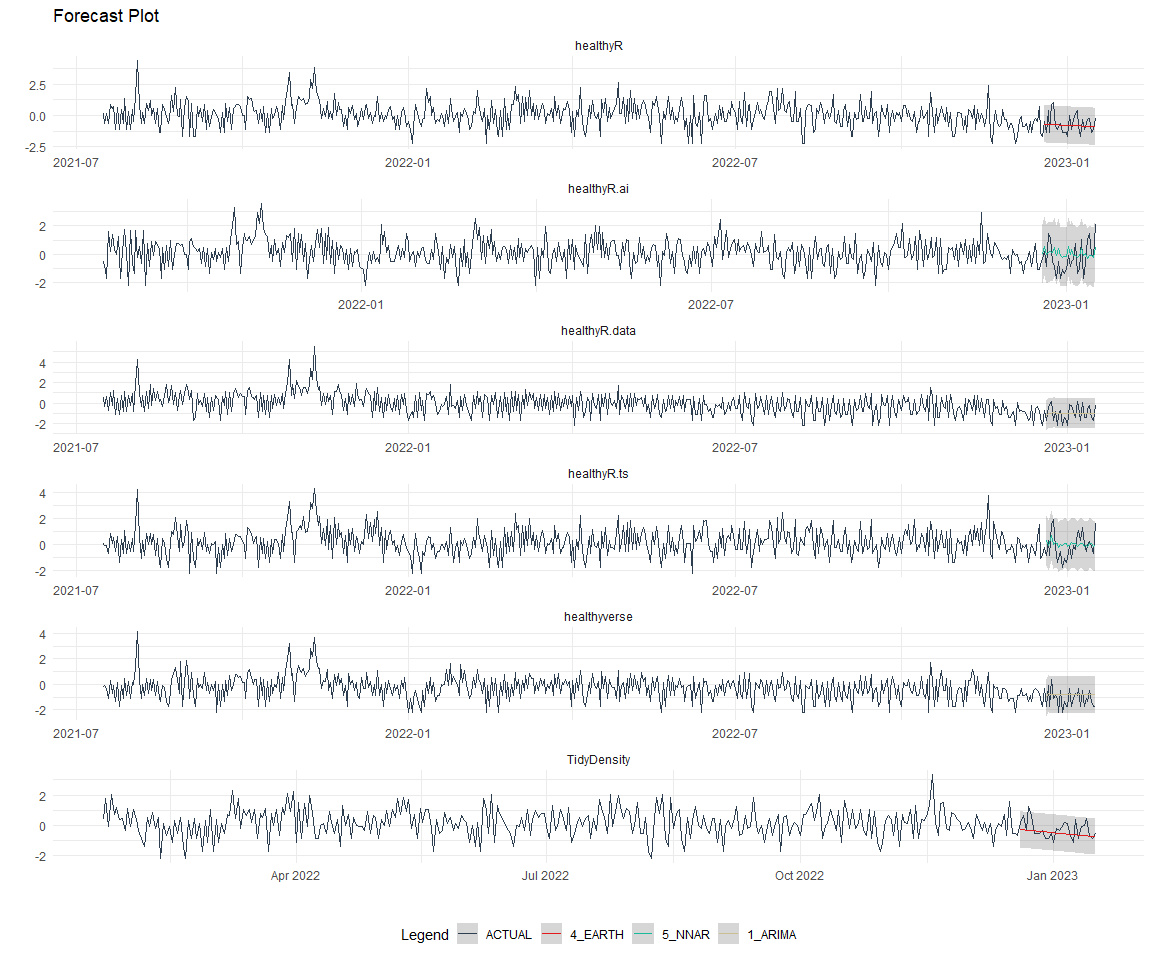
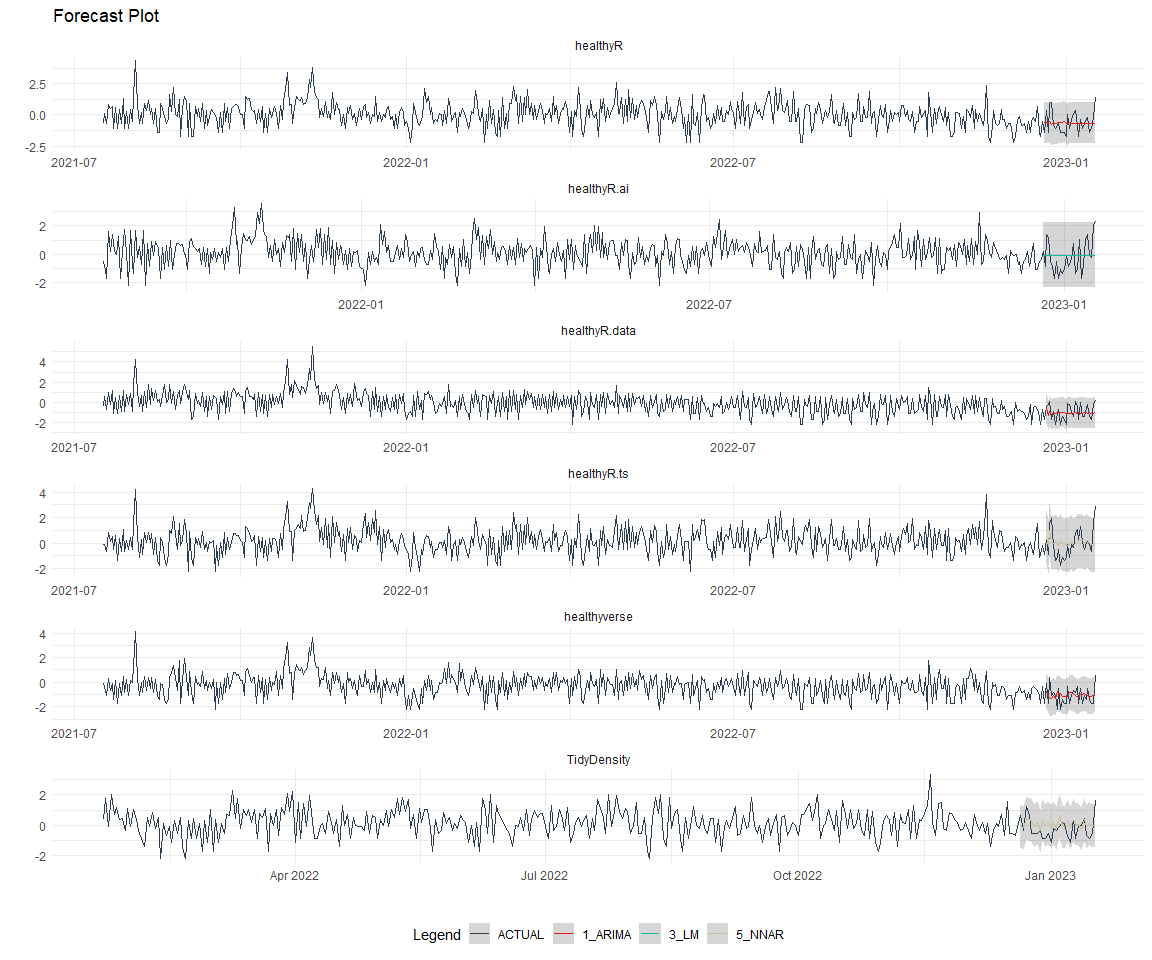
updates

diff --git a/README.md b/README.md
@@ -1,7 +1,7 @@
 Time Series Analysis and Nested Modeling of the Healthyverse Packages
 ================
 Steven P. Sanderson II, MPH - Data Scientist/IT Manager
-18 January, 2023
+19 January, 2023
 
 This analysis follows a *Nested Modeltime Workflow*.
 
@@ -11,7 +11,7 @@ This analysis follows a *Nested Modeltime Workflow*.
 glimpse(downloads_tbl)
 ```
 
-    ## Rows: 54,791
+    ## Rows: 55,011
     ## Columns: 11
     ## $ date      <date> 2020-11-23, 2020-11-23, 2020-11-23, 2020-11-23, 2020-11-23,…
     ## $ time      <Period> 15H 36M 55S, 11H 26M 39S, 23H 34M 44S, 18H 39M 32S, 9H 0M…
@@ -25,8 +25,8 @@ glimpse(downloads_tbl)
     ## $ country   <chr> "US", "US", "US", "GB", "US", "US", "DE", "HK", "JP", "US", …
     ## $ ip_id     <int> 2069, 2804, 78827, 27595, 90474, 90474, 42435, 74, 7655, 638…
 
-The last day in the data set is 2023-01-16 23:24:08, the file was
-birthed on: 2022-07-02 23:58:17, and at report knit time is -4747.43
+The last day in the data set is 2023-01-17 23:52:45, the file was
+birthed on: 2022-07-02 23:58:17, and at report knit time is -4771.91
 hours old. Happy analyzing!
 
 Now that we have our data lets take a look at it using the `skimr`
@@ -39,7 +39,7 @@ skim(downloads_tbl)
 |                                                  |               |
 |:-------------------------------------------------|:--------------|
 | Name                                             | downloads_tbl |
-| Number of rows                                   | 54791         |
+| Number of rows                                   | 55011         |
 | Number of columns                                | 11            |
 | \_\_\_\_\_\_\_\_\_\_\_\_\_\_\_\_\_\_\_\_\_\_\_   |               |
 | Column type frequency:                           |               |
@@ -57,37 +57,37 @@ Data summary
 
 | skim_variable | n_missing | complete_rate | min | max | empty | n_unique | whitespace |
 |:--------------|----------:|--------------:|----:|----:|------:|---------:|-----------:|
-| r_version     |     37624 |          0.31 |   5 |   5 |     0 |       35 |          0 |
-| r_arch        |     37624 |          0.31 |   3 |   7 |     0 |        5 |          0 |
-| r_os          |     37624 |          0.31 |   7 |  15 |     0 |       11 |          0 |
+| r_version     |     37813 |          0.31 |   5 |   5 |     0 |       35 |          0 |
+| r_arch        |     37813 |          0.31 |   3 |   7 |     0 |        5 |          0 |
+| r_os          |     37813 |          0.31 |   7 |  15 |     0 |       11 |          0 |
 | package       |         0 |          1.00 |   8 |  13 |     0 |        6 |          0 |
 | version       |         0 |          1.00 |   5 |   6 |     0 |       37 |          0 |
-| country       |      4440 |          0.92 |   2 |   2 |     0 |      128 |          0 |
+| country       |      4441 |          0.92 |   2 |   2 |     0 |      128 |          0 |
 
 **Variable type: Date**
 
 | skim_variable | n_missing | complete_rate | min        | max        | median     | n_unique |
 |:--------------|----------:|--------------:|:-----------|:-----------|:-----------|---------:|
-| date          |         0 |             1 | 2020-11-23 | 2023-01-16 | 2022-01-24 |      785 |
+| date          |         0 |             1 | 2020-11-23 | 2023-01-17 | 2022-01-24 |      786 |
 
 **Variable type: numeric**
 
 | skim_variable | n_missing | complete_rate |       mean |         sd |  p0 |   p25 |    p50 |     p75 |    p100 | hist  |
 |:--------------|----------:|--------------:|-----------:|-----------:|----:|------:|-------:|--------:|--------:|:------|
-| size          |         0 |             1 | 1352587.26 | 1703394.26 | 357 | 27386 | 322853 | 2731251 | 5677952 | ▇▁▂▂▁ |
-| ip_id         |         0 |             1 |    8985.93 |   17087.71 |   1 |   121 |   2374 |    9434 |  143633 | ▇▁▁▁▁ |
+| size          |         0 |             1 | 1349490.94 | 1702076.22 | 357 | 26285 | 313295 | 2731208 | 5677952 | ▇▁▂▂▁ |
+| ip_id         |         0 |             1 |    8971.68 |   17074.57 |   1 |   129 |   2340 |    9402 |  143633 | ▇▁▁▁▁ |
 
 **Variable type: POSIXct**
 
 | skim_variable | n_missing | complete_rate | min                 | max                 | median              | n_unique |
 |:--------------|----------:|--------------:|:--------------------|:--------------------|:--------------------|---------:|
-| date_time     |         0 |             1 | 2020-11-23 09:00:41 | 2023-01-16 23:24:08 | 2022-01-24 06:20:52 |    32542 |
+| date_time     |         0 |             1 | 2020-11-23 09:00:41 | 2023-01-17 23:52:45 | 2022-01-24 13:47:53 |    32617 |
 
 **Variable type: Timespan**
 
-| skim_variable | n_missing | complete_rate | min | max |     median | n_unique |
-|:--------------|----------:|--------------:|----:|----:|-----------:|---------:|
-| time          |         0 |             1 |   0 |  59 | 11H 39M 6S |       60 |
+| skim_variable | n_missing | complete_rate | min | max |      median | n_unique |
+|:--------------|----------:|--------------:|----:|----:|------------:|---------:|
+| time          |         0 |             1 |   0 |  59 | 11H 39M 48S |       60 |
 
 We can see that the following columns are missing a lot of data and for
 us are most likely not useful anyways, so we will drop them
@@ -189,8 +189,8 @@ nested_data_tbl
     ## 2 healthyR.data <tibble [544 × 2]> <tibble [28 × 2]> <split [516|28]>
     ## 3 healthyR.ts   <tibble [547 × 2]> <tibble [28 × 2]> <split [519|28]>
     ## 4 healthyverse  <tibble [549 × 2]> <tibble [28 × 2]> <split [521|28]>
-    ## 5 healthyR.ai   <tibble [513 × 2]> <tibble [28 × 2]> <split [485|28]>
-    ## 6 TidyDensity   <tibble [361 × 2]> <tibble [28 × 2]> <split [333|28]>
+    ## 5 healthyR.ai   <tibble [514 × 2]> <tibble [28 × 2]> <split [486|28]>
+    ## 6 TidyDensity   <tibble [362 × 2]> <tibble [28 × 2]> <split [334|28]>
 
 Now it is time to make some recipes and models using the modeltime
 workflow.
@@ -307,8 +307,8 @@ nested_modeltime_tbl
     ## 2 healthyR.data <tibble [544 × 2]> <tibble [28 × 2]> <split [516|28]> <mdl_tm_t>
     ## 3 healthyR.ts   <tibble [547 × 2]> <tibble [28 × 2]> <split [519|28]> <mdl_tm_t>
     ## 4 healthyverse  <tibble [549 × 2]> <tibble [28 × 2]> <split [521|28]> <mdl_tm_t>
-    ## 5 healthyR.ai   <tibble [513 × 2]> <tibble [28 × 2]> <split [485|28]> <mdl_tm_t>
-    ## 6 TidyDensity   <tibble [361 × 2]> <tibble [28 × 2]> <split [333|28]> <mdl_tm_t>
+    ## 5 healthyR.ai   <tibble [514 × 2]> <tibble [28 × 2]> <split [486|28]> <mdl_tm_t>
+    ## 6 TidyDensity   <tibble [362 × 2]> <tibble [28 × 2]> <split [334|28]> <mdl_tm_t>
     ## # … with abbreviated variable name ¹.modeltime_tables
 
 ### Model Accuracy
@@ -319,38 +319,38 @@ nested_modeltime_tbl %>%
   knitr::kable()
 ```
 
-| package       | .model_id | .model_desc | .type |       mae |      mape |      mase |     smape |      rmse |       rsq |
-|:--------------|----------:|:------------|:------|----------:|----------:|----------:|----------:|----------:|----------:|
-| healthyR      |         1 | ARIMA       | Test  | 0.6340799 | 371.22047 | 0.7761374 |  90.11914 | 0.7575680 | 0.0152857 |
-| healthyR      |         2 | NULL        | NA    |        NA |        NA |        NA |        NA |        NA |        NA |
-| healthyR      |         3 | LM          | Test  | 0.7258480 | 160.47704 | 0.8884649 | 125.90641 | 0.8513454 | 0.0113774 |
-| healthyR      |         4 | EARTH       | Test  | 0.6186432 | 380.65478 | 0.7572422 |  84.03507 | 0.7505254 | 0.0113774 |
-| healthyR      |         5 | NNAR        | Test  | 0.7941009 | 169.96289 | 0.9720090 | 135.82360 | 0.9618552 | 0.0002470 |
-| healthyR.data |         1 | ARIMA       | Test  | 0.6594236 | 515.17336 | 0.7237258 |  78.85813 | 0.7426308 | 0.0208554 |
-| healthyR.data |         2 | NULL        | NA    |        NA |        NA |        NA |        NA |        NA |        NA |
-| healthyR.data |         3 | LM          | Test  | 0.6848058 | 414.65450 | 0.7515832 |  85.34948 | 0.7759015 | 0.0111480 |
-| healthyR.data |         4 | EARTH       | Test  | 0.8165624 | 843.84136 | 0.8961876 |  79.78069 | 0.9773840 | 0.0111480 |
-| healthyR.data |         5 | NNAR        | Test  | 0.9573059 | 172.30771 | 1.0506555 | 154.85266 | 1.1907135 | 0.0057669 |
-| healthyR.ts   |         1 | ARIMA       | Test  | 0.7878847 | 127.42442 | 0.8908325 | 147.68289 | 0.9830067 | 0.0036796 |
-| healthyR.ts   |         2 | NULL        | NA    |        NA |        NA |        NA |        NA |        NA |        NA |
-| healthyR.ts   |         3 | LM          | Test  | 0.8483271 | 160.41528 | 0.9591726 | 167.80630 | 1.0116274 | 0.0527555 |
-| healthyR.ts   |         4 | EARTH       | Test  | 1.0270126 | 615.79464 | 1.1612057 | 123.80772 | 1.2710836 | 0.0527555 |
-| healthyR.ts   |         5 | NNAR        | Test  | 0.8065585 | 146.00162 | 0.9119463 | 174.16655 | 0.9687427 | 0.0248944 |
-| healthyverse  |         1 | ARIMA       | Test  | 0.6228463 |  77.44213 | 0.6931095 |  62.65519 | 0.7268999 | 0.0792455 |
-| healthyverse  |         2 | NULL        | NA    |        NA |        NA |        NA |        NA |        NA |        NA |
-| healthyverse  |         3 | LM          | Test  | 0.7032354 |  75.43894 | 0.7825674 |  72.70977 | 0.8260649 | 0.0143704 |
-| healthyverse  |         4 | EARTH       | Test  | 0.6450230 |  80.05386 | 0.7177880 |  65.10951 | 0.7500936 | 0.0143704 |
-| healthyverse  |         5 | NNAR        | Test  | 1.0074332 |  96.64475 | 1.1210817 | 144.07556 | 1.1362321 | 0.0633403 |
-| healthyR.ai   |         1 | ARIMA       | Test  | 0.9327222 |  97.97445 | 0.8795829 | 165.03793 | 1.0863866 | 0.0013158 |
-| healthyR.ai   |         2 | NULL        | NA    |        NA |        NA |        NA |        NA |        NA |        NA |
-| healthyR.ai   |         3 | LM          | Test  | 0.9209706 | 115.91854 | 0.8685008 | 174.94886 | 1.0724126 | 0.0538958 |
-| healthyR.ai   |         4 | EARTH       | Test  | 0.8511751 | 303.16458 | 0.8026817 | 109.16663 | 1.0985482 | 0.0538958 |
-| healthyR.ai   |         5 | NNAR        | Test  | 0.9495207 | 155.39172 | 0.8954244 | 166.54897 | 1.0561856 | 0.0991644 |
-| TidyDensity   |         1 | ARIMA       | Test  | 0.6211755 | 168.97904 | 1.1155176 | 167.29634 | 0.7275609 | 0.1190921 |
-| TidyDensity   |         2 | NULL        | NA    |        NA |        NA |        NA |        NA |        NA |        NA |
-| TidyDensity   |         3 | LM          | Test  | 0.5993491 | 154.34722 | 1.0763213 | 166.73626 | 0.6968132 | 0.0775985 |
-| TidyDensity   |         4 | EARTH       | Test  | 0.4615511 | 352.37587 | 0.8288614 |  95.90516 | 0.6039448 | 0.0775985 |
-| TidyDensity   |         5 | NNAR        | Test  | 0.6171464 | 213.56680 | 1.1082820 | 159.33546 | 0.7341444 | 0.0005315 |
+| package       | .model_id | .model_desc | .type |       mae |       mape |      mase |     smape |      rmse |       rsq |
+|:--------------|----------:|:------------|:------|----------:|-----------:|----------:|----------:|----------:|----------:|
+| healthyR      |         1 | ARIMA       | Test  | 0.6924071 |  430.61667 | 0.8218709 |  95.28569 | 0.8384934 | 0.0124747 |
+| healthyR      |         2 | NULL        | NA    |        NA |         NA |        NA |        NA |        NA |        NA |
+| healthyR      |         3 | LM          | Test  | 0.7705041 |  189.80078 | 0.9145702 | 129.30718 | 0.9002407 | 0.0035658 |
+| healthyR      |         4 | EARTH       | Test  | 0.6916827 |  470.98102 | 0.8210111 |  89.88451 | 0.8635639 | 0.0035658 |
+| healthyR      |         5 | NNAR        | Test  | 0.8501946 |  186.57563 | 1.0091610 | 139.37197 | 1.0318087 | 0.0067722 |
+| healthyR.data |         1 | ARIMA       | Test  | 0.6705928 |  652.14054 | 0.7667117 |  83.16821 | 0.7581477 | 0.0384025 |
+| healthyR.data |         2 | NULL        | NA    |        NA |         NA |        NA |        NA |        NA |        NA |
+| healthyR.data |         3 | LM          | Test  | 0.6849592 |  520.81453 | 0.7831374 |  89.22752 | 0.7758694 | 0.0182184 |
+| healthyR.data |         4 | EARTH       | Test  | 0.9167219 | 1105.60247 | 1.0481196 |  86.99572 | 1.0957179 | 0.0182184 |
+| healthyR.data |         5 | NNAR        | Test  | 0.9406365 |  256.87014 | 1.0754620 | 146.45522 | 1.1727292 | 0.0012708 |
+| healthyR.ts   |         1 | ARIMA       | Test  | 0.8587912 |  124.27456 | 0.9699759 | 144.93327 | 1.1277418 | 0.0009491 |
+| healthyR.ts   |         2 | NULL        | NA    |        NA |         NA |        NA |        NA |        NA |        NA |
+| healthyR.ts   |         3 | LM          | Test  | 0.9039060 |  168.91458 | 1.0209316 | 168.32854 | 1.1139811 | 0.1033321 |
+| healthyR.ts   |         4 | EARTH       | Test  | 1.1467245 |  720.91883 | 1.2951870 | 128.64118 | 1.4737699 | 0.1033321 |
+| healthyR.ts   |         5 | NNAR        | Test  | 0.7854639 |  129.71596 | 0.8871552 | 135.75002 | 1.0632150 | 0.0739477 |
+| healthyverse  |         1 | ARIMA       | Test  | 0.6054870 |   95.70480 | 0.6578121 |  61.23412 | 0.7281671 | 0.0003633 |
+| healthyverse  |         2 | NULL        | NA    |        NA |         NA |        NA |        NA |        NA |        NA |
+| healthyverse  |         3 | LM          | Test  | 0.7022059 |   80.97265 | 0.7628893 |  75.72648 | 0.8258552 | 0.0001948 |
+| healthyverse  |         4 | EARTH       | Test  | 0.6520020 |   87.04441 | 0.7083469 |  68.47462 | 0.7642446 | 0.0001948 |
+| healthyverse  |         5 | NNAR        | Test  | 0.9924719 |   91.10678 | 1.0782396 | 144.87509 | 1.1201855 | 0.0406243 |
+| healthyR.ai   |         1 | ARIMA       | Test  | 1.0091438 |  101.94884 | 0.9672738 | 171.93442 | 1.1616924 | 0.0044332 |
+| healthyR.ai   |         2 | NULL        | NA    |        NA |         NA |        NA |        NA |        NA |        NA |
+| healthyR.ai   |         3 | LM          | Test  | 0.9906158 |  125.49841 | 0.9495145 | 175.09832 | 1.1562244 | 0.1154700 |
+| healthyR.ai   |         4 | EARTH       | Test  | 0.9541382 |  376.03074 | 0.9145504 | 115.99550 | 1.2298307 | 0.1154700 |
+| healthyR.ai   |         5 | NNAR        | Test  | 1.0165997 |  217.55869 | 0.9744204 | 167.32916 | 1.1697383 | 0.0004124 |
+| TidyDensity   |         1 | ARIMA       | Test  | 0.6695410 |  188.41626 | 1.0822835 | 173.01149 | 0.7737243 | 0.0823673 |
+| TidyDensity   |         2 | NULL        | NA    |        NA |         NA |        NA |        NA |        NA |        NA |
+| TidyDensity   |         3 | LM          | Test  | 0.6483250 |  170.27384 | 1.0479889 | 171.81518 | 0.7485807 | 0.0006309 |
+| TidyDensity   |         4 | EARTH       | Test  | 0.7654961 |  753.03191 | 1.2373907 | 102.43641 | 1.0230424 | 0.0006309 |
+| TidyDensity   |         5 | NNAR        | Test  | 0.5924962 |  236.52647 | 0.9577440 | 153.88872 | 0.7131512 | 0.0472124 |
 
 ### Plot Models
 
@@ -385,14 +385,15 @@ best_nested_modeltime_tbl %>%
 
     ## # Nested Modeltime Table
     ##   # A tibble: 6 × 10
-    ##   package       .model_id .model_desc .type   mae  mape  mase smape  rmse    rsq
-    ##   <fct>             <int> <chr>       <chr> <dbl> <dbl> <dbl> <dbl> <dbl>  <dbl>
-    ## 1 healthyR              4 EARTH       Test  0.619 381.  0.757  84.0 0.751 0.0114
-    ## 2 healthyR.data         1 ARIMA       Test  0.659 515.  0.724  78.9 0.743 0.0209
-    ## 3 healthyR.ts           5 NNAR        Test  0.807 146.  0.912 174.  0.969 0.0249
-    ## 4 healthyverse          1 ARIMA       Test  0.623  77.4 0.693  62.7 0.727 0.0792
-    ## 5 healthyR.ai           5 NNAR        Test  0.950 155.  0.895 167.  1.06  0.0992
-    ## 6 TidyDensity           4 EARTH       Test  0.462 352.  0.829  95.9 0.604 0.0776
+    ##   package       .model_id .model_d…¹ .type   mae  mape  mase smape  rmse     rsq
+    ##   <fct>             <int> <chr>      <chr> <dbl> <dbl> <dbl> <dbl> <dbl>   <dbl>
+    ## 1 healthyR              1 ARIMA      Test  0.692 431.  0.822  95.3 0.838 1.25e-2
+    ## 2 healthyR.data         1 ARIMA      Test  0.671 652.  0.767  83.2 0.758 3.84e-2
+    ## 3 healthyR.ts           5 NNAR       Test  0.785 130.  0.887 136.  1.06  7.39e-2
+    ## 4 healthyverse          1 ARIMA      Test  0.605  95.7 0.658  61.2 0.728 3.63e-4
+    ## 5 healthyR.ai           3 LM         Test  0.991 125.  0.950 175.  1.16  1.15e-1
+    ## 6 TidyDensity           5 NNAR       Test  0.592 237.  0.958 154.  0.713 4.72e-2
+    ## # … with abbreviated variable name ¹.model_desc
 
 ``` r
 best_nested_modeltime_tbl %>%
@@ -433,8 +434,8 @@ nested_modeltime_refit_tbl
     ## 2 healthyR.data <tibble [544 × 2]> <tibble [28 × 2]> <split [516|28]> <mdl_tm_t>
     ## 3 healthyR.ts   <tibble [547 × 2]> <tibble [28 × 2]> <split [519|28]> <mdl_tm_t>
     ## 4 healthyverse  <tibble [549 × 2]> <tibble [28 × 2]> <split [521|28]> <mdl_tm_t>
-    ## 5 healthyR.ai   <tibble [513 × 2]> <tibble [28 × 2]> <split [485|28]> <mdl_tm_t>
-    ## 6 TidyDensity   <tibble [361 × 2]> <tibble [28 × 2]> <split [333|28]> <mdl_tm_t>
+    ## 5 healthyR.ai   <tibble [514 × 2]> <tibble [28 × 2]> <split [486|28]> <mdl_tm_t>
+    ## 6 TidyDensity   <tibble [362 × 2]> <tibble [28 × 2]> <split [334|28]> <mdl_tm_t>
     ## # … with abbreviated variable name ¹.modeltime_tables
 
 ``` r
